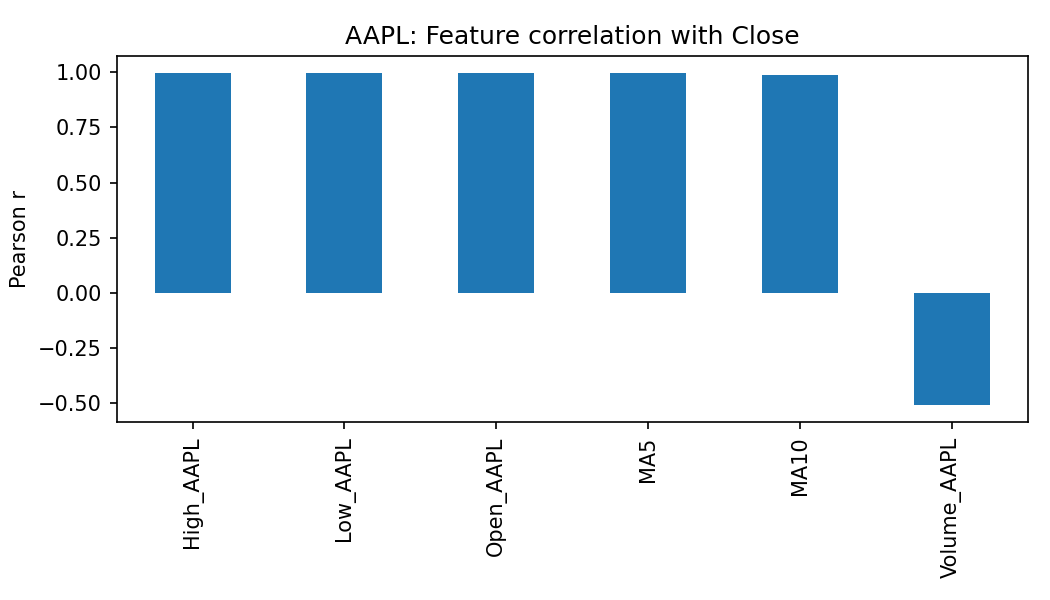
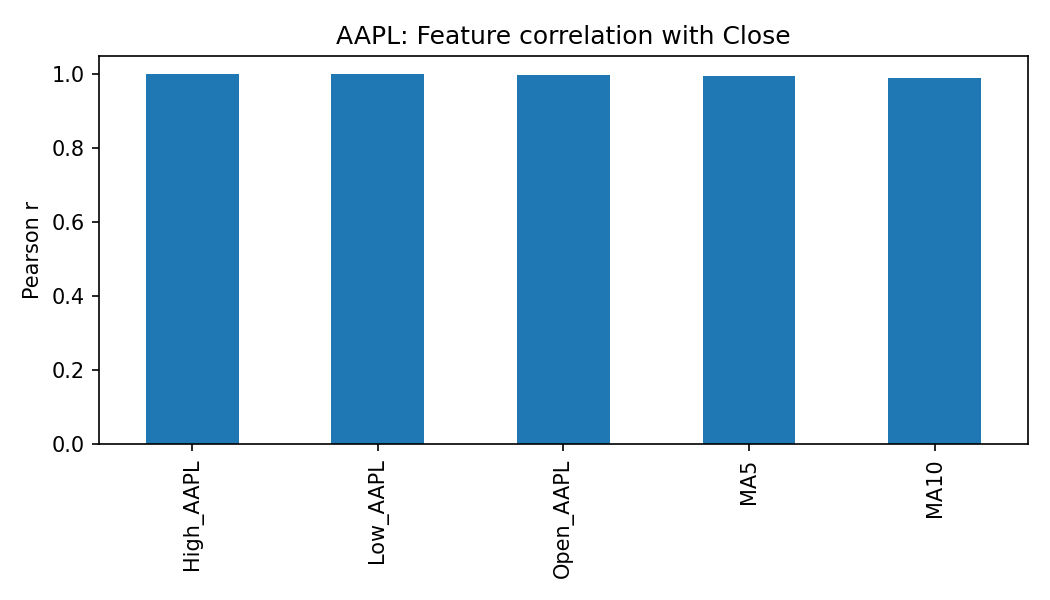
Task 2 complteed

diff --git a/Task2.py b/Task2.py
@@ -2,9 +2,15 @@
 # I304 – Assessment 1 (Task 02: K-Means Clustering – Credit Card dataset)
 # Run: python task02_clustering.py
 #
-# This version ensures ALL figures are cluster scatter plots (no elbow/metric line charts).
-# We still compute metrics (silhouette, CH, DBI) for reporting (printed + CSV), but only
-# save PCA 2D scatter plots colored by cluster for each k.
+# All output figures are CLUSTER SCATTERS.
+# For each k (3..15) we save:
+#   - PCA 2D cluster scatter
+#   - Original feature-pair cluster scatter (configurable; auto-picks top-variance if not found)
+#
+# Also saves:
+#   - outputs/task02_kmeans_metrics.csv
+#   - outputs/task02_cluster_feature_means.csv
+#   - outputs/task02_cluster_assignments.csv
 
 import os
 import warnings
@@ -18,17 +24,17 @@ from sklearn.impute import SimpleImputer
 from sklearn.preprocessing import StandardScaler
 from sklearn.decomposition import PCA
 from sklearn.cluster import KMeans
-from sklearn.metrics import (
-    silhouette_score,
-    calinski_harabasz_score,
-    davies_bouldin_score,
-)
+from sklearn.metrics import silhouette_score, calinski_harabasz_score, davies_bouldin_score
 
 # =========================
 # Config
 # =========================
-CSV_PATH = "data/CC_GENERAL.csv"   # <- adjust if needed
-ID_GUESS_TOKENS = ("id", "cust", "customer")  # guess an ID-like column
+CSV_PATH = "data/CC_GENERAL.csv"        # <- adjust if needed
+ID_GUESS_TOKENS = ("id", "cust", "customer")
+
+# Optional: choose a pair of ORIGINAL numeric columns to plot per-k.
+# If either is missing, the script will auto-pick the 2 highest-variance numeric features.
+FEATURE_PAIR = ("BALANCE", "PURCHASES")  # e.g. ("BALANCE","PURCHASES") or None to always auto-pick
 
 os.makedirs("figures", exist_ok=True)
 os.makedirs("outputs", exist_ok=True)
@@ -37,20 +43,17 @@ os.makedirs("outputs", exist_ok=True)
 # Load
 # =========================
 if not os.path.exists(CSV_PATH):
-    raise FileNotFoundError(
-        f"Could not find {CSV_PATH}. Place the credit card CSV in ./data and update CSV_PATH if needed."
-    )
+    raise FileNotFoundError(f"Could not find {CSV_PATH}. Put the CSV in ./data or update CSV_PATH.")
 
 df_raw = pd.read_csv(CSV_PATH)
 print("Loaded shape:", df_raw.shape)
 print("Columns:", list(df_raw.columns))
 
 # =========================
-# Identify ID column (if any) & numeric-only feature set
+# Identify ID column (if present) & keep numeric features
 # =========================
 df = df_raw.copy()
 
-# Try common ID variants
 id_col = None
 for c in df.columns:
     cl = str(c).lower()
@@ -58,7 +61,6 @@ for c in df.columns:
         id_col = c
         break
 
-# Secondary heuristic: object columns with nearly-unique values
 if id_col is None:
     obj_like = [c for c in df.columns if df[c].dtype == "object"]
     for c in obj_like:
@@ -66,16 +68,15 @@ if id_col is None:
             id_col = c
             break
 
-print(f"Detected ID column: {id_col}" if id_col else "No ID column detected (that’s fine).")
+print(f"Detected ID column: {id_col}" if id_col else "No ID column detected.")
 
-# Keep numeric columns only
+# Numeric-only for KMeans
 num_df = df.select_dtypes(include=[np.number]).copy()
 if num_df.empty:
     raise RuntimeError("No numeric columns found for clustering.")
 
 # Drop zero-variance columns
-nunique = num_df.nunique()
-degenerate = nunique[nunique <= 1].index.tolist()
+degenerate = num_df.columns[num_df.nunique() <= 1].tolist()
 if degenerate:
     print("Dropping zero-variance columns:", degenerate)
     num_df = num_df.drop(columns=degenerate)
@@ -86,10 +87,31 @@ if degenerate:
 imputer = SimpleImputer(strategy="median")
 scaler = StandardScaler()
 
-X_imputed = imputer.fit_transform(num_df)
-X = scaler.fit_transform(X_imputed)
+X_imputed = imputer.fit_transform(num_df)  # original scale (imputed) for orig-feature plots & summaries
+X = scaler.fit_transform(X_imputed)        # scaled for KMeans
 
 print("Final feature matrix shape:", X.shape)
+
+# Keep a DataFrame of imputed numeric features for plotting by original columns
+num_imputed_df = pd.DataFrame(X_imputed, columns=num_df.columns).reset_index(drop=True)
+
+# =========================
+# Decide which original pair to plot
+# =========================
+def pick_feature_pair(df_num, preferred_pair):
+    cols = list(df_num.columns)
+    if preferred_pair:
+        a, b = preferred_pair
+        if a in cols and b in cols:
+            return a, b
+    # Auto-pick by variance if not found
+    var = df_num.var(numeric_only=True).sort_values(ascending=False)
+    if len(var) < 2:
+        raise RuntimeError("Need at least two numeric columns to plot an original-feature scatter.")
+    return var.index[0], var.index[1]
+
+feat_x, feat_y = pick_feature_pair(num_imputed_df, FEATURE_PAIR)
+print(f"Original-feature plot pair: ({feat_x}, {feat_y})")
 
 # =========================
 # PCA (fit once for consistent projections across k)
@@ -97,13 +119,11 @@ print("Final feature matrix shape:", X.shape)
 pca = PCA(n_components=2, random_state=42)
 X_pca = pca.fit_transform(X)
 
-# Helper for cluster scatter (PCA 2D)
-def plot_cluster_scatter(X2d, labels, title, outpath):
+def plot_cluster_scatter_pca(X2d, labels, title, outpath):
     plt.figure(figsize=(7, 6))
-    # One chart, clusters as colours (default palette)
     for c in np.unique(labels):
-        mask = labels == c
-        plt.scatter(X2d[mask, 0], X2d[mask, 1], s=14, alpha=0.8, label=f"Cluster {c}")
+        m = labels == c
+        plt.scatter(X2d[m, 0], X2d[m, 1], s=14, alpha=0.8, label=f"Cluster {c}")
     plt.title(title)
     plt.xlabel("PC1")
     plt.ylabel("PC2")
@@ -112,8 +132,23 @@ def plot_cluster_scatter(X2d, labels, title, outpath):
     plt.savefig(outpath, dpi=150)
     plt.close()
 
+def plot_cluster_scatter_orig(df_num_imputed, labels, fx, fy, title, outpath):
+    x = df_num_imputed[fx].values
+    y = df_num_imputed[fy].values
+    plt.figure(figsize=(7, 6))
+    for c in np.unique(labels):
+        m = labels == c
+        plt.scatter(x[m], y[m], s=14, alpha=0.8, label=f"Cluster {c}")
+    plt.title(title)
+    plt.xlabel(fx)
+    plt.ylabel(fy)
+    plt.legend()
+    plt.tight_layout()
+    plt.savefig(outpath, dpi=150)
+    plt.close()
+
 # =========================
-# K sweep (k = 3 .. 15)  — ALL FIGURES ARE CLUSTER SCATTERS
+# K sweep (k = 3 .. 15) — save ONLY cluster plots (PCA & orig-pair) for each k
 # =========================
 ks = list(range(3, 16))
 metrics_rows = []
@@ -125,7 +160,7 @@ for k in ks:
     km = KMeans(n_clusters=k, n_init=20, random_state=42)
     labels_k = km.fit_predict(X)
 
-    # Metrics (printed + saved as CSV later, but NOT plotted as lines)
+    # Metrics (for table/report, not plotted)
     try:
         sil = silhouette_score(X, labels_k)
     except Exception:
@@ -140,40 +175,40 @@ for k in ks:
         dbi = np.nan
 
     metrics_rows.append(
-        {
-            "k": k,
-            "inertia": km.inertia_,
-            "silhouette": sil,
-            "calinski_harabasz": ch,
-            "davies_bouldin": dbi,
-        }
+        {"k": k, "inertia": km.inertia_, "silhouette": sil, "calinski_harabasz": ch, "davies_bouldin": dbi}
     )
 
-    # Cluster scatter figure for this k (PCA 2D)
-    fig_path = f"figures/task02_kmeans_k{k:02d}_pca_clusters.png"
-    plot_cluster_scatter(X_pca, labels_k, f"KMeans clusters (k={k}) – PCA 2D", fig_path)
-    print(f"[FIG] Saved PCA cluster plot for k={k} -> {fig_path}")
+    # 1) PCA cluster plot
+    pca_path = f"figures/task02_kmeans_k{k:02d}_pca_clusters.png"
+    plot_cluster_scatter_pca(X_pca, labels_k, f"KMeans clusters (k={k}) – PCA 2D", pca_path)
+    print(f"[FIG] {pca_path}")
 
-    # Track best by silhouette
+    # 2) Original-feature pair cluster plot
+    orig_path = f"figures/task02_kmeans_k{k:02d}_orig_{feat_x}_{feat_y}_clusters.png"
+    plot_cluster_scatter_orig(num_imputed_df, labels_k, feat_x, feat_y,
+                              f"KMeans clusters (k={k}) – {feat_x} vs {feat_y}", orig_path)
+    print(f"[FIG] {orig_path}")
+
+    # Track best k by silhouette
     if not np.isnan(sil) and sil > best_sil:
         best_sil = sil
         best_k = k
 
-# Save metrics table
+# Save metrics CSV
 metrics_df = pd.DataFrame(metrics_rows).sort_values("k").reset_index(drop=True)
 metrics_path = "outputs/task02_kmeans_metrics.csv"
 metrics_df.to_csv(metrics_path, index=False)
 print(f"[CSV] Metrics saved -> {metrics_path}")
 
-# Fallback if silhouette was all NaN
+# Fallback if all silhouettes NaN
 if best_k is None:
     print("[WARN] All silhouette scores NaN; falling back to min DBI.")
     best_k = int(metrics_df.loc[metrics_df["davies_bouldin"].idxmin(), "k"])
 
-print(f"\nChosen best k: {best_k} (by silhouette where available)")
+print(f"\nChosen best k: {best_k}")
 
 # =========================
-# Final fit, labels, and highlighted cluster figure for best_k
+# Final fit and highlighted cluster plots for best_k
 # =========================
 kmeans = KMeans(n_clusters=best_k, n_init=20, random_state=42)
 labels = kmeans.fit_predict(X)
@@ -181,7 +216,7 @@ labels = kmeans.fit_predict(X)
 df_clusters = df.copy()
 df_clusters["cluster"] = labels
 
-# Save per-cluster means for original numeric features (imputed, unscaled)
+# Per-cluster means (on imputed numeric features)
 cluster_summary = (
     pd.DataFrame(X_imputed, columns=num_df.columns)
     .assign(cluster=labels)
@@ -193,19 +228,22 @@ summary_path = "outputs/task02_cluster_feature_means.csv"
 cluster_summary.to_csv(summary_path, index=True)
 print(f"[CSV] Cluster feature means saved -> {summary_path}")
 
-# Highlighted PCA scatter for best_k
-best_fig_path = f"figures/task02_kmeans_bestk{best_k:02d}_pca_clusters.png"
-plot_cluster_scatter(X_pca, labels, f"KMeans clusters (k={best_k}) – PCA 2D [Best k]", best_fig_path)
-print(f"[FIG] Saved BEST-K PCA cluster plot -> {best_fig_path}")
+# Highlighted PCA plot
+best_pca_path = f"figures/task02_kmeans_bestk{best_k:02d}_pca_clusters.png"
+plot_cluster_scatter_pca(X_pca, labels, f"KMeans clusters (k={best_k}) – PCA 2D [Best k]", best_pca_path)
+print(f"[FIG] {best_pca_path}")
 
-# =========================
-# Export labeled data (optional, helps marking)
-# =========================
-out_df = df_clusters.copy()
+# Highlighted original-feature pair plot
+best_orig_path = f"figures/task02_kmeans_bestk{best_k:02d}_orig_{feat_x}_{feat_y}_clusters.png"
+plot_cluster_scatter_orig(num_imputed_df, labels, feat_x, feat_y,
+                          f"KMeans clusters (k={best_k}) – {feat_x} vs {feat_y} [Best k]", best_orig_path)
+print(f"[FIG] {best_orig_path}")
+
+# Export labeled data (ID + cluster if ID found)
+assign_path = "outputs/task02_cluster_assignments.csv"
 cols_to_keep = [id_col] if id_col else []
 cols_to_keep += ["cluster"]
-assign_path = "outputs/task02_cluster_assignments.csv"
-out_df[cols_to_keep].to_csv(assign_path, index=False)
+df_clusters[cols_to_keep].to_csv(assign_path, index=False)
 print(f"[CSV] Cluster assignments saved -> {assign_path}")
 
-print("\nDone. All figures are cluster scatter plots (see figures/).")
+print("\nDone. Check the figures/ folder — each k has TWO cluster plots (PCA and original-feature pair).")

diff --git a/Task3.py b/Task3.py
@@ -1,0 +1,94 @@
+# Part C – Clustering on heart.csv
+# --------------------------------------------------------------
+# Run with:
+#   pip install pandas numpy matplotlib scikit-learn
+#
+# Tasks:
+# - Read heart.csv
+# - Use first 13 columns as features (ignore 'num' classification column)
+# - Apply clustering:
+#     1) KMeans with n_clusters = 2, 3, 4
+#     2) MeanShift (lets it pick cluster count)
+# - Visualize clusters with scatter plots
+
+import pandas as pd
+import numpy as np
+import matplotlib.pyplot as plt
+
+from sklearn.compose import ColumnTransformer
+from sklearn.preprocessing import OneHotEncoder, StandardScaler
+from sklearn.pipeline import Pipeline
+from sklearn.cluster import KMeans, MeanShift
+
+# ======== CONFIG ========
+CSV_PATH = "heart.csv"           # same folder
+FEATURE_FOR_PLOTS = "trestbps"   # choose feature for x-axis
+FEATURE_FOR_PLOTS_Y = "thalch"   # choose feature for y-axis
+# ========================
+
+def main():
+    # 1) Load data
+    df = pd.read_csv(CSV_PATH)
+
+    # Use first 13 columns as features (assignment spec)
+    X = df.iloc[:, :13].dropna().reset_index(drop=True)
+
+    # Identify categorical vs numeric
+    categorical_cols = [c for c in X.columns if X[c].dtype == "O"]
+    numeric_cols = [c for c in X.columns if c not in categorical_cols]
+
+    # Preprocessing: scale numeric + one-hot encode categoricals
+    preprocessor = ColumnTransformer(
+        transformers=[
+            ("num", StandardScaler(), numeric_cols),
+            ("cat", OneHotEncoder(drop="first", handle_unknown="ignore"), categorical_cols),
+        ],
+        remainder="drop",
+    )
+
+    X_proc = preprocessor.fit_transform(X)
+
+    print("[INFO] Data prepared for clustering")
+    print("  Samples:", X_proc.shape[0], "Features after encoding:", X_proc.shape[1])
+
+    # Helper: plot scatter for 2 chosen features coloured by cluster labels
+    def scatter_clusters(x_feat, y_feat, labels, title):
+        x_vals = X[x_feat].astype(float).values
+        y_vals = X[y_feat].astype(float).values
+        plt.figure()
+        plt.scatter(x_vals, y_vals, c=labels)
+        plt.xlabel(x_feat)
+        plt.ylabel(y_feat)
+        plt.title(title)
+        plt.grid(True, linestyle="--", alpha=0.4)
+        plt.tight_layout()
+        plt.show()
+
+    # -------------------------
+    # 1) KMeans (k=2,3,4)
+    # -------------------------
+    for k in [2, 3, 4]:
+        km = KMeans(n_clusters=k, n_init=10, random_state=42)
+        labels = km.fit_predict(X_proc)
+
+        print(f"\n[KMeans] k={k}")
+        print("Cluster sizes:", np.bincount(labels))
+
+        scatter_clusters(FEATURE_FOR_PLOTS, FEATURE_FOR_PLOTS_Y,
+                         labels, f"KMeans Clusters (k={k})")
+
+    # -------------------------
+    # 2) MeanShift
+    # -------------------------
+    ms = MeanShift()
+    labels_ms = ms.fit_predict(X_proc)
+
+    print("\n[MeanShift]")
+    print("Estimated clusters:", len(np.unique(labels_ms)))
+    print("Cluster sizes:", np.bincount(labels_ms))
+
+    scatter_clusters(FEATURE_FOR_PLOTS, FEATURE_FOR_PLOTS_Y,
+                     labels_ms, "MeanShift Clusters")
+
+if __name__ == "__main__":
+    main()

diff --git a/Task1.py b/Task1.py
@@ -153,6 +153,11 @@ corr_matrix = df.loc[mask, feature_cols_resolved + [CLOSE_COL]].corr(numeric_onl
 
 # Force to Series to avoid pandas version quirks
 corrs = ensure_series(corr_matrix.loc[:, CLOSE_COL]).drop(labels=[CLOSE_COL], errors="ignore")
+
+# Drop Volume_AAPL if present
+corrs = corrs.drop(labels=["Volume_AAPL"], errors="ignore")
+
+# Sort remaing features
 corrs = corrs.sort_values(ascending=False)
 
 print("\nCorrelation with Close:")
